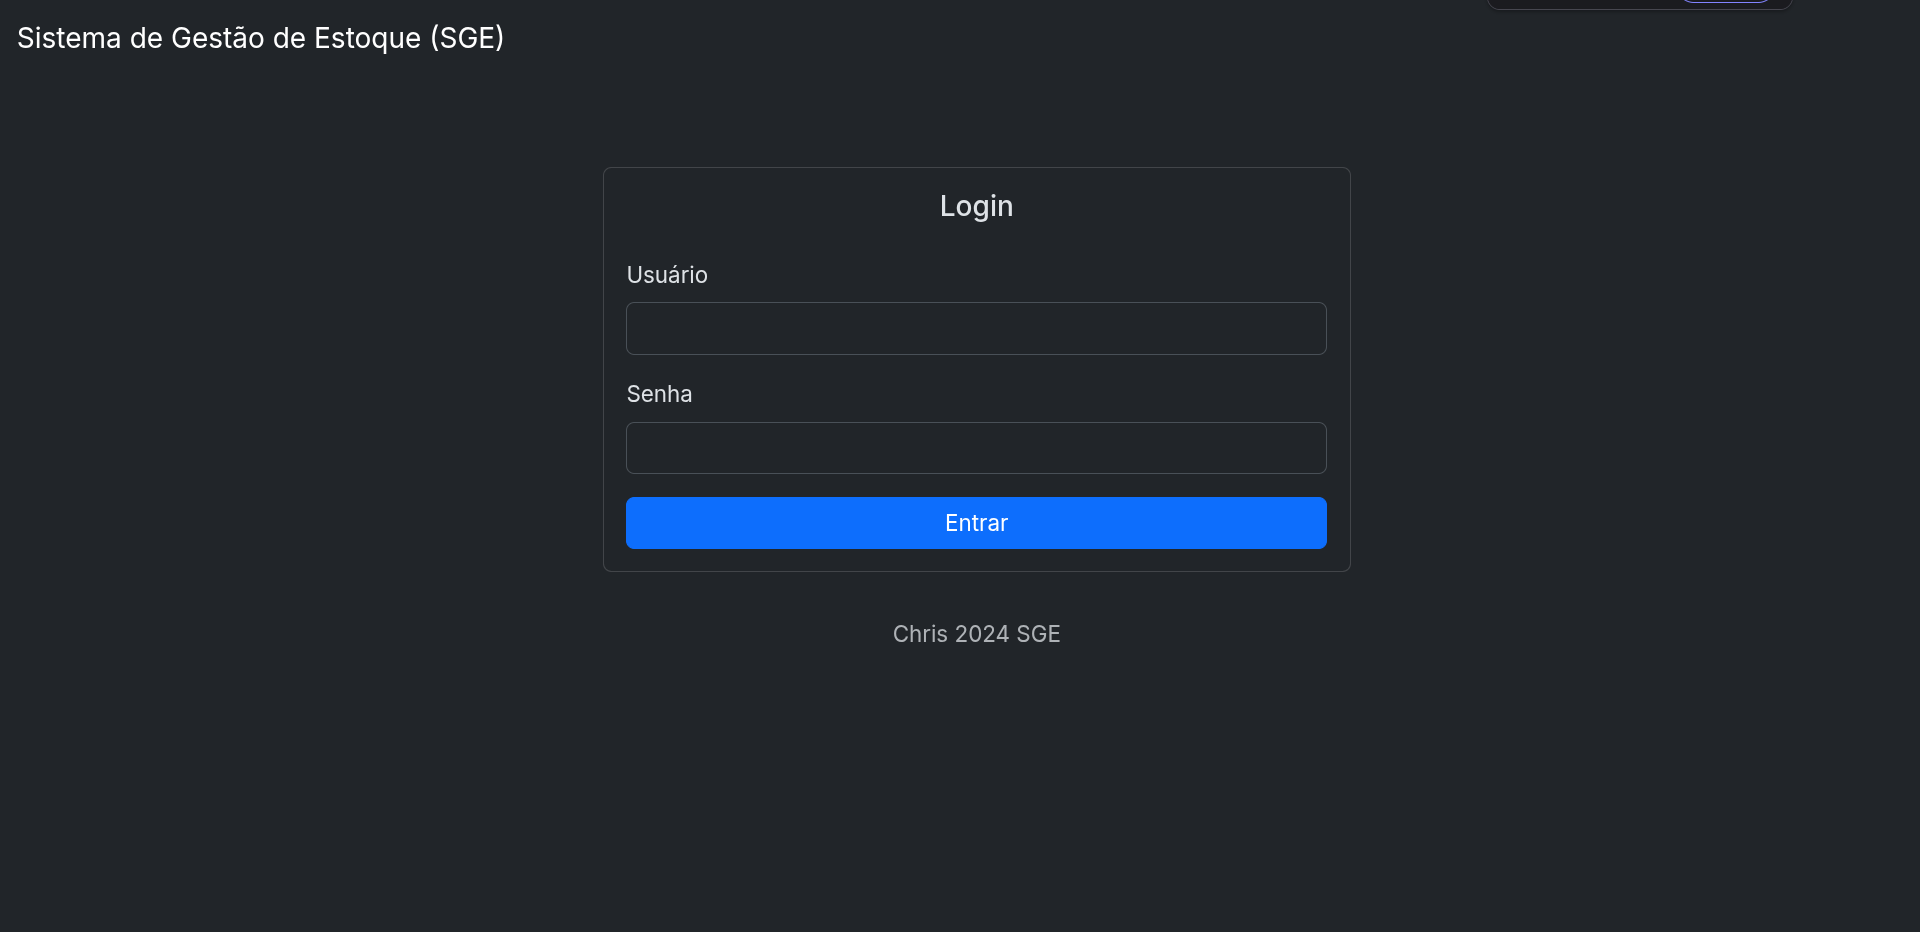
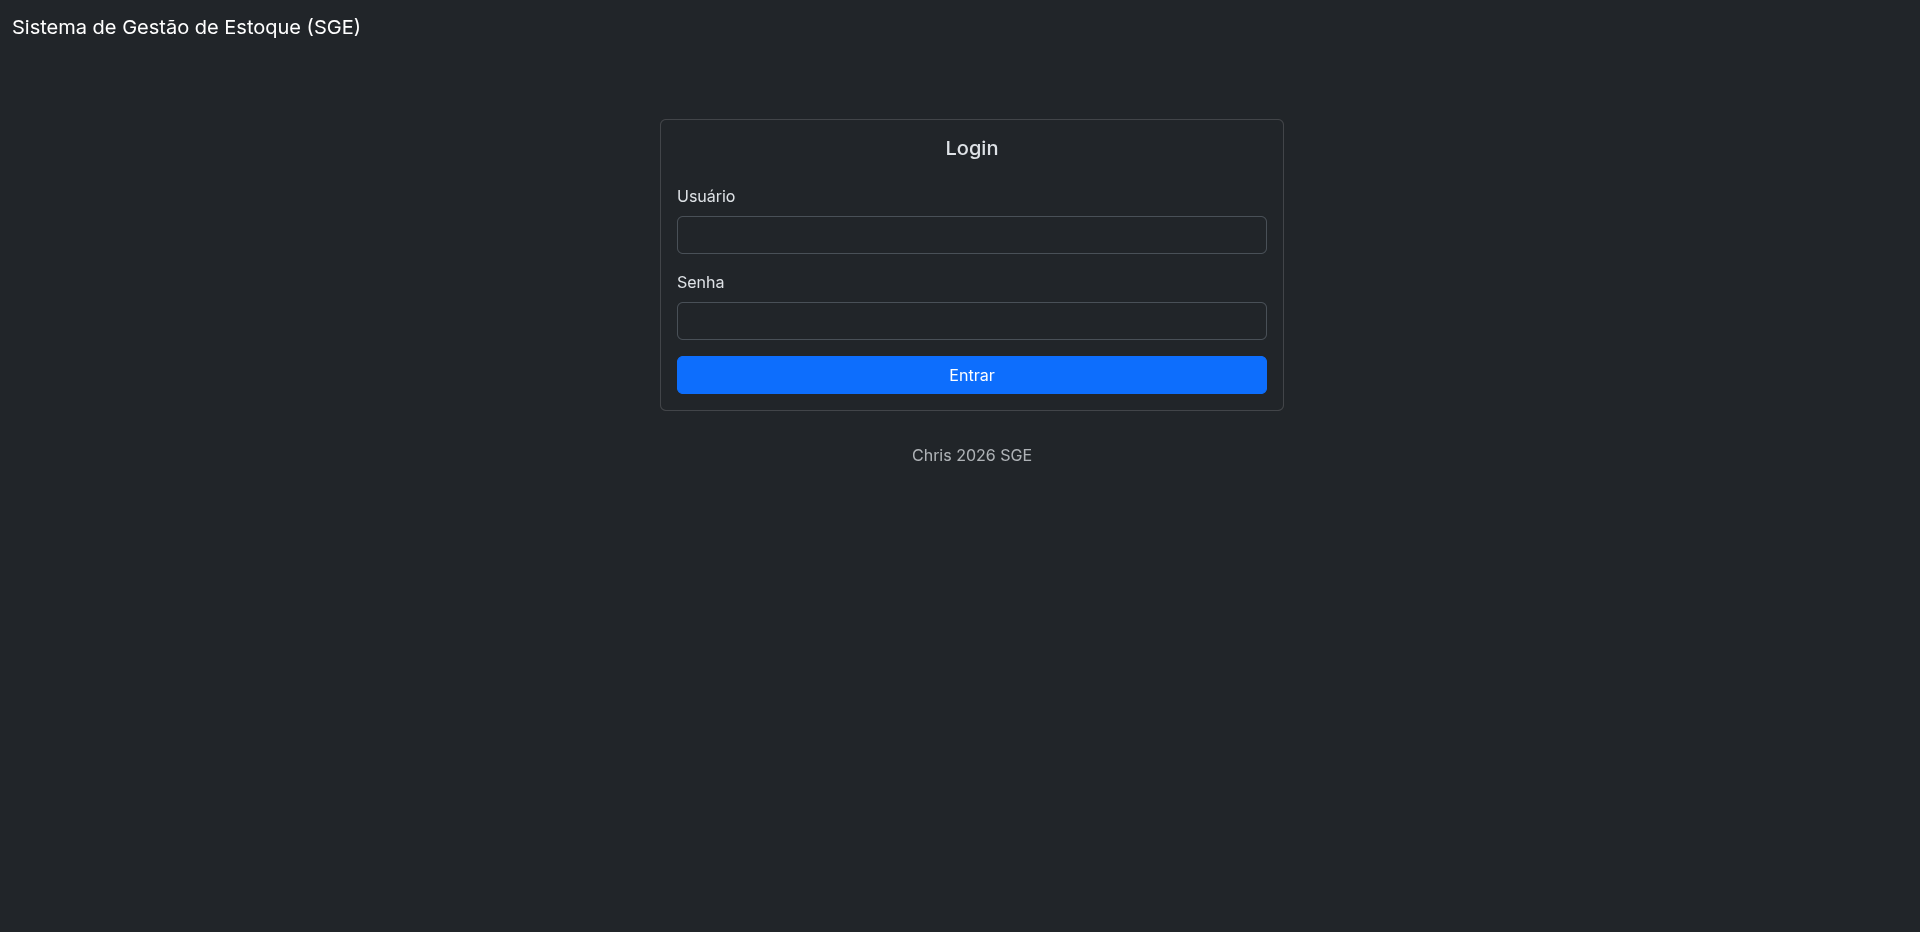
Updated images

diff --git a/app/templates/components/_footer.html b/app/templates/components/_footer.html
@@ -1,5 +1,5 @@
 <footer class="footer mt-auto py-3 text-center">
     <div class="container">
-        <span class="text-muted">Chris 2024 SGE</span>
+        <span class="text-muted">Chris 2026 SGE</span>
     </div>
 </footer>
